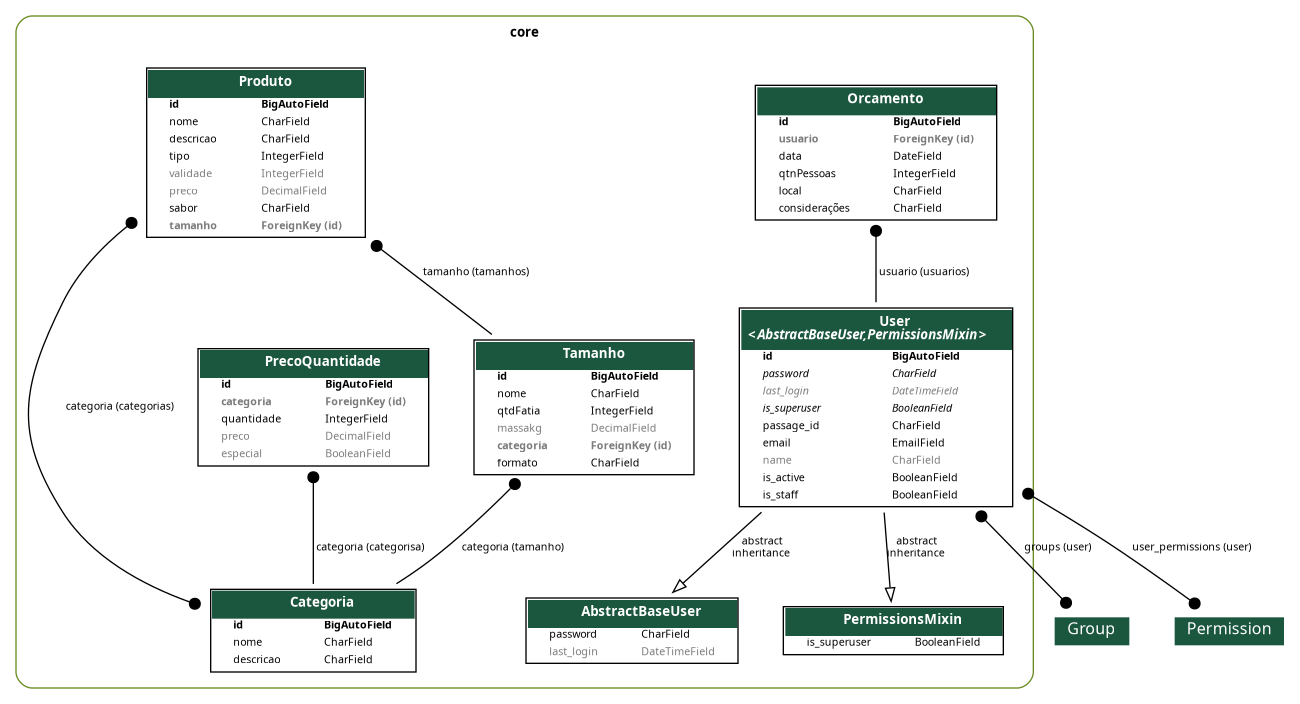
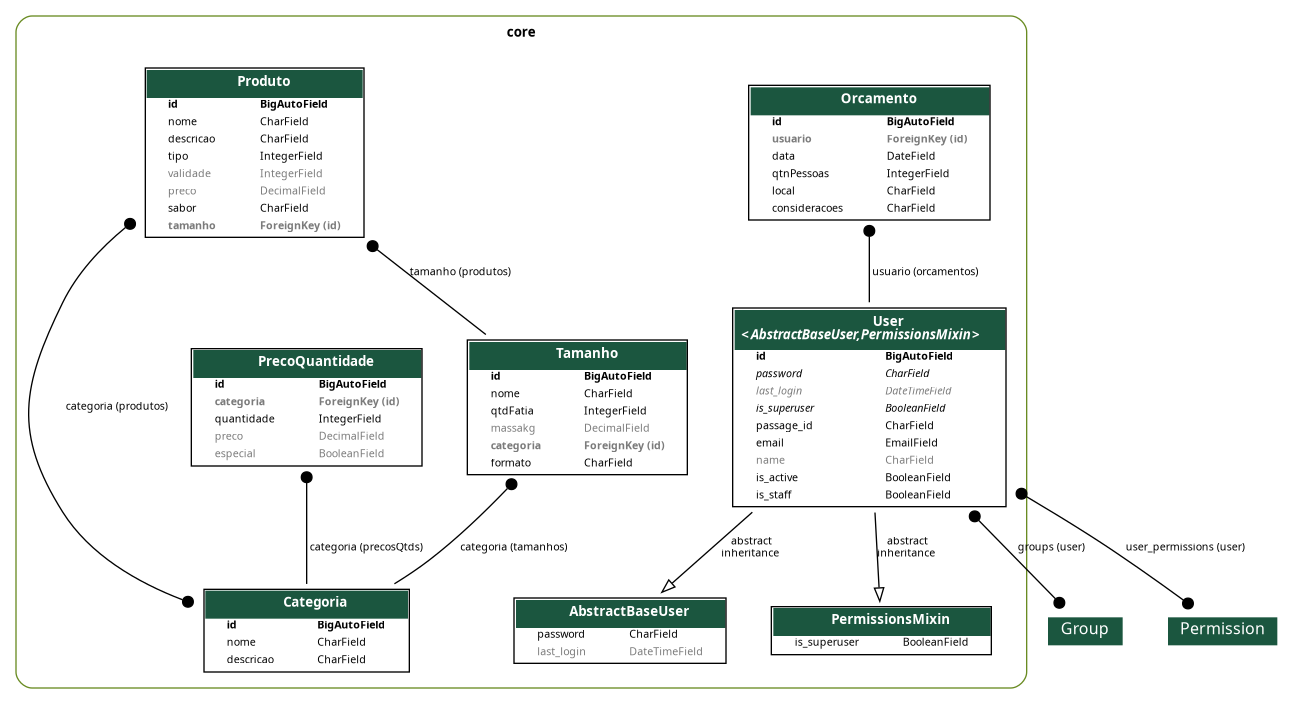
Feat: Mudanças em serializers orçamento, preçoQtd, produto e tamanho #17

diff --git a/core/migrations/0017_rename_considerações_orcamento_consideracoes_and_more.py b/core/migrations/0017_rename_considerações_orcamento_consideracoes_and_more.py
@@ -1,0 +1,45 @@
+# Generated by Django 5.1.7 on 2025-06-11 21:53
+
+import django.db.models.deletion
+from django.conf import settings
+from django.db import migrations, models
+
+
+class Migration(migrations.Migration):
+
+    dependencies = [
+        ('core', '0016_alter_produto_categoria'),
+    ]
+
+    operations = [
+        migrations.RenameField(
+            model_name='orcamento',
+            old_name='considerações',
+            new_name='consideracoes',
+        ),
+        migrations.AlterField(
+            model_name='orcamento',
+            name='usuario',
+            field=models.ForeignKey(blank=True, null=True, on_delete=django.db.models.deletion.PROTECT, related_name='orcamentos', to=settings.AUTH_USER_MODEL),
+        ),
+        migrations.AlterField(
+            model_name='precoquantidade',
+            name='categoria',
+            field=models.ForeignKey(blank=True, null=True, on_delete=django.db.models.deletion.PROTECT, related_name='precosQtds', to='core.categoria'),
+        ),
+        migrations.AlterField(
+            model_name='produto',
+            name='categoria',
+            field=models.ManyToManyField(blank=True, related_name='produtos', to='core.categoria'),
+        ),
+        migrations.AlterField(
+            model_name='produto',
+            name='tamanho',
+            field=models.ForeignKey(blank=True, null=True, on_delete=django.db.models.deletion.PROTECT, related_name='produtos', to='core.tamanho'),
+        ),
+        migrations.AlterField(
+            model_name='tamanho',
+            name='categoria',
+            field=models.ForeignKey(blank=True, null=True, on_delete=django.db.models.deletion.PROTECT, related_name='tamanhos', to='core.categoria'),
+        ),
+    ]

diff --git a/core/models/produto.py b/core/models/produto.py
@@ -9,13 +9,13 @@ class Produto(models.Model):
         PISTACHE = 3, "Pistache"
     nome = models.CharField(max_length=100)
     # categoria = models.ForeignKey(Categoria, on_delete=models.PROTECT, related_name='categorias', null=True, blank=True)
-    categoria = models.ManyToManyField(Categoria, related_name="categorias", blank=True)
+    categoria = models.ManyToManyField(Categoria, related_name="produtos", blank=True)
     descricao = models.CharField(max_length=400)
     tipo = models.IntegerField(choices=Tipo.choices,  default=Tipo.NORMAL)
     validade = models.IntegerField(default=0,blank=True, null=True)
     preco = models.DecimalField(max_digits=7, decimal_places=2, default=0, null=True, blank=True)
     sabor = models.CharField(max_length=100)
-    tamanho = models.ForeignKey(Tamanho, on_delete=models.PROTECT, related_name="tamanhos", null=True, blank=True)
+    tamanho = models.ForeignKey(Tamanho, on_delete=models.PROTECT, related_name="produtos", null=True, blank=True)
     
     
     def __str__(self):

diff --git a/core/models/orcamento.py b/core/models/orcamento.py
@@ -2,11 +2,11 @@ from django.db import models
 from .user import User
 
 class Orcamento(models.Model):
-    usuario = models.ForeignKey(User, on_delete=models.PROTECT, related_name="usuarios", null=True, blank=True)
+    usuario = models.ForeignKey(User, on_delete=models.PROTECT, related_name="orcamentos", null=True, blank=True)
     data = models.DateField(null=False)
     qtnPessoas = models.IntegerField(default=0)
     local = models.CharField(max_length=100)
-    considerações = models.CharField(max_length=200)
+    consideracoes = models.CharField(max_length=200)
     
     def __str__(self):
         return f'{self.usuario} ({self.data})'

diff --git a/core/serializers/__init__.py b/core/serializers/__init__.py
@@ -1,6 +1,14 @@
 from .user import UserSerializer
 from .categoria import CategoriaSerializer
 from .produto import ProdutoSerializer
+from .produto import ProdutoListSerializer
+from .produto import ProdutoRetrieveSerializer
 from .tamanho import TamanhoSerializer
+from .tamanho import TamanhoListSerializer
+from .tamanho import TamanhoRetrieveSerializer
 from .orcamento import OrcamentoSerializer
+from .orcamento import OrcamentoListSerializer
+from .orcamento import OrcamentoRetriveSerializer
 from .precoQtd import PrecoQtdSerializer
+from .precoQtd import PrecoQtdListSerializer
+from .precoQtd import PrecoQtdRetrieveSerializer

diff --git a/core/views/precoQtd.py b/core/views/precoQtd.py
@@ -1,8 +1,14 @@
 from rest_framework.viewsets import ModelViewSet
 
 from core.models import PrecoQuantidade
-from core.serializers import PrecoQtdSerializer
+from core.serializers import PrecoQtdSerializer, PrecoQtdRetrieveSerializer, PrecoQtdListSerializer
 
 class PrecoQtdViewSet(ModelViewSet):
     queryset = PrecoQuantidade.objects.all()
-    serializer_class = PrecoQtdSerializer
+    
+    def get_serializer_class(self):
+        if self.action == 'list':
+            return PrecoQtdListSerializer
+        elif self.action == 'retrieve':
+            return PrecoQtdRetrieveSerializer
+        return PrecoQtdSerializer

diff --git a/core/views/orcamento.py b/core/views/orcamento.py
@@ -1,8 +1,14 @@
 from rest_framework.viewsets import ModelViewSet
 
 from core.models import Orcamento
-from core.serializers import OrcamentoSerializer
+from core.serializers import OrcamentoSerializer, OrcamentoRetriveSerializer, OrcamentoListSerializer
 
 class OrcamentoViewSet(ModelViewSet):
     queryset = Orcamento.objects.all()
-    serializer_class = OrcamentoSerializer
+    
+    def get_serializer_class(self):
+        if self.action == 'list':
+            return OrcamentoListSerializer
+        elif self.action == 'retrieve':
+            return OrcamentoRetriveSerializer
+        return OrcamentoSerializer

diff --git a/core/views/produto.py b/core/views/produto.py
@@ -1,8 +1,14 @@
 from rest_framework.viewsets import ModelViewSet
 
 from core.models import Produto
-from core.serializers import ProdutoSerializer
+from core.serializers import ProdutoSerializer, ProdutoRetrieveSerializer, ProdutoListSerializer
 
 class ProdutoViewSet(ModelViewSet):
     queryset = Produto.objects.all()
-    serializer_class = ProdutoSerializer
+    
+    def get_serializer_class(self):
+        if self.action == "list":
+            return ProdutoListSerializer
+        elif self.action == "retrieve":
+            return ProdutoRetrieveSerializer
+        return ProdutoSerializer

diff --git a/core/views/tamanho.py b/core/views/tamanho.py
@@ -1,8 +1,14 @@
 from rest_framework.viewsets import ModelViewSet
 
 from core.models import Tamanho
-from core.serializers import TamanhoSerializer
+from core.serializers import TamanhoSerializer, TamanhoListSerializer, TamanhoRetrieveSerializer
 
 class TamanhoViewSet(ModelViewSet):
     queryset = Tamanho.objects.all()
-    serializer_class = TamanhoSerializer
+    
+    def get_serializer_class(self):
+        if self.action == "list":
+            return TamanhoListSerializer
+        elif self.action == "retrieve":
+            return TamanhoRetrieveSerializer
+        return TamanhoSerializer

diff --git a/core/serializers/precoQtd.py b/core/serializers/precoQtd.py
@@ -2,8 +2,21 @@ from rest_framework.serializers import ModelSerializer
 
 from core.models import PrecoQuantidade
 
+
+class PrecoQtdListSerializer(ModelSerializer):
+    class Meta:
+        model = PrecoQuantidade
+        fields = ("id", "categoria", "quantidade", "preco")
+
+
+class PrecoQtdRetrieveSerializer(ModelSerializer):
+    class Meta:
+        model = PrecoQuantidade
+        fields = "__all__"
+        depth = 1  
+
+
 class PrecoQtdSerializer(ModelSerializer):
     class Meta:
         model = PrecoQuantidade
         fields = "__all__"
-        depth = 1

diff --git a/core/models/precoQtd.py b/core/models/precoQtd.py
@@ -2,7 +2,7 @@ from django.db import models
 from .categoria import Categoria
 
 class PrecoQuantidade(models.Model):
-    categoria = models.ForeignKey(Categoria, on_delete=models.PROTECT, related_name="categorisa", null=True, blank=True)
+    categoria = models.ForeignKey(Categoria, on_delete=models.PROTECT, related_name="precosQtds", null=True, blank=True)
     quantidade = models.IntegerField(default=0) 
     preco = models.DecimalField(max_digits=7, decimal_places=2, default=0, null=True, blank=True)
     especial = models.BooleanField(blank=True, null=True)

diff --git a/core/serializers/orcamento.py b/core/serializers/orcamento.py
@@ -2,8 +2,18 @@ from rest_framework.serializers import ModelSerializer
 
 from core.models import Orcamento
 
+class OrcamentoListSerializer(ModelSerializer):
+    class Meta:
+        model = Orcamento
+        fields = ('id', 'usuario', 'data', 'local')
+
+class OrcamentoRetriveSerializer(ModelSerializer):
+    class Meta:
+        model = Orcamento
+        fields = '__all__'
+        depth = 1
+
 class OrcamentoSerializer(ModelSerializer):
     class Meta:
         model = Orcamento
-        fields = "__all__"
-        depth = 1
+        fields = '__all__'

diff --git a/core/models/tamanho.py b/core/models/tamanho.py
@@ -8,7 +8,7 @@ class Tamanho(models.Model):
     qtdFatia = models.IntegerField(default=0)
     massakg = models.DecimalField(max_digits=4, decimal_places=2, default=0, null=True, blank=True)
     # preco = models.DecimalField(max_digits=7, decimal_places=2, default=0, null=True, blank=True)
-    categoria = models.ForeignKey(Categoria, on_delete=models.PROTECT, null=True, blank=True)
+    categoria = models.ForeignKey(Categoria, on_delete=models.PROTECT, related_name='tamanhos',null=True, blank=True)
     formato = models.CharField(max_length=50)
    
     
